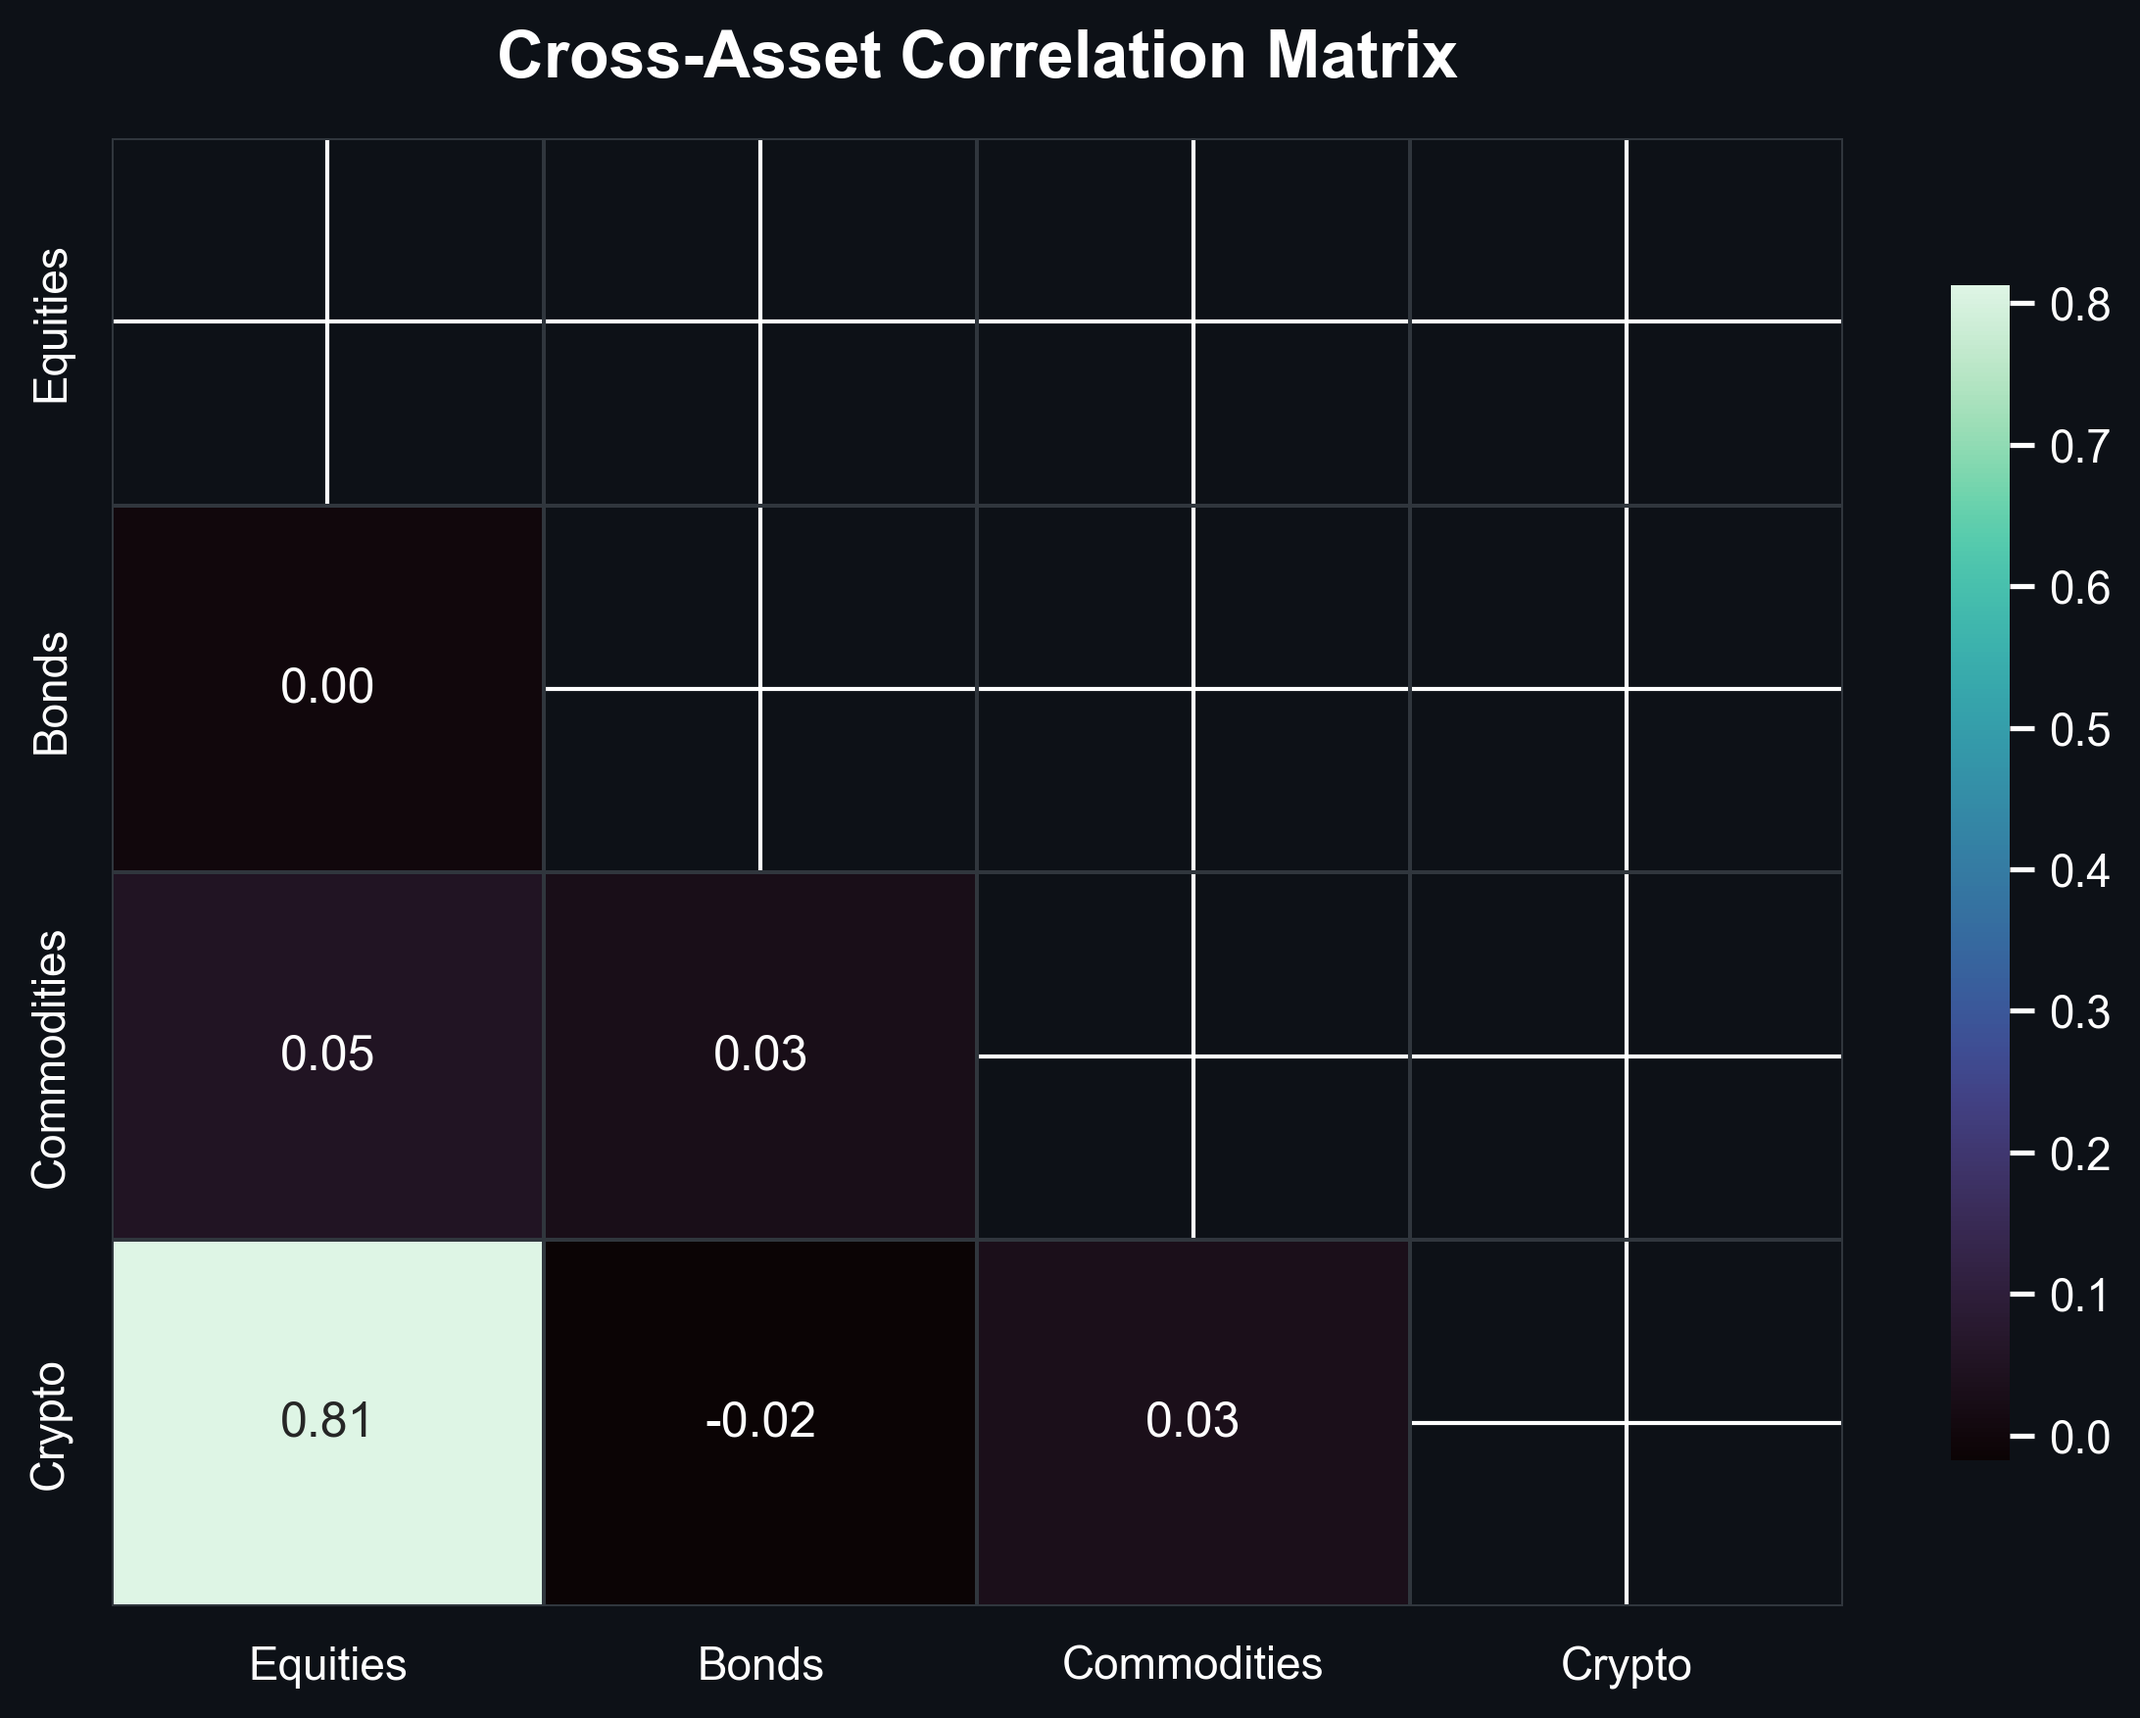
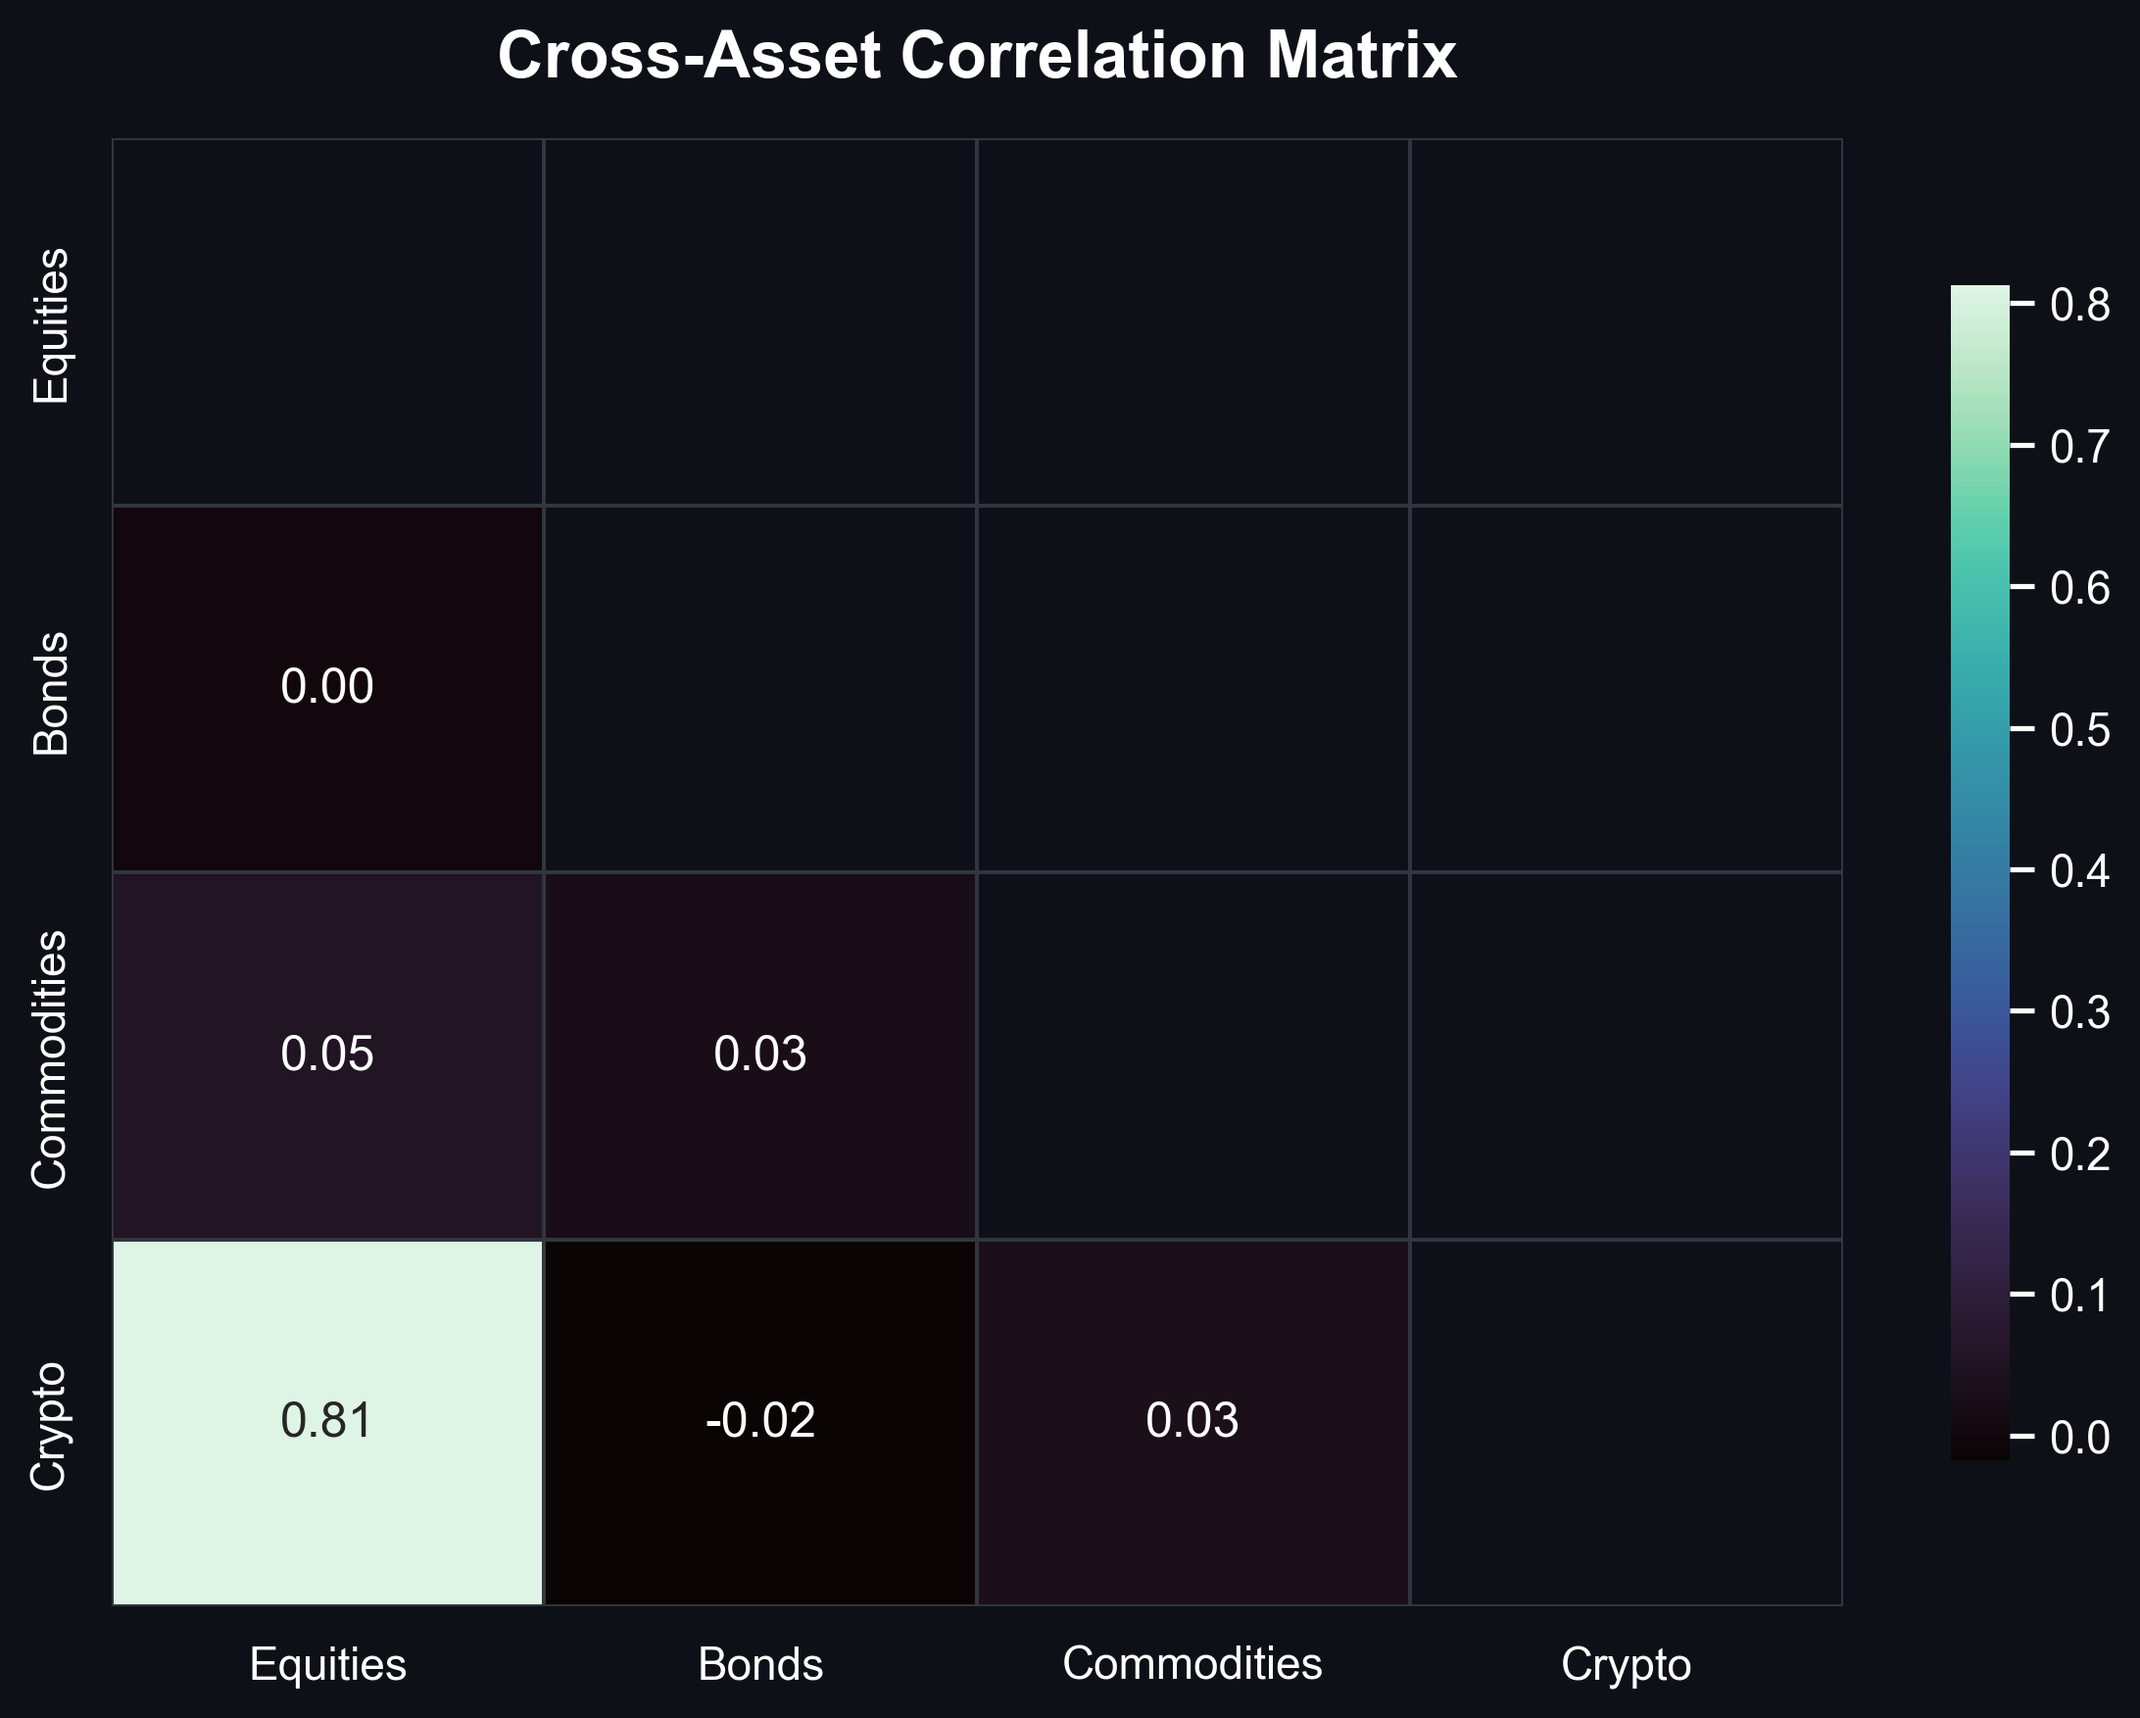
fix(visuals): comprehensively strip global seaborn axes grids across all heatmaps

diff --git a/nexus/utils/visualizer.py b/nexus/utils/visualizer.py
@@ -167,7 +167,7 @@ class NexusVisualizer:
         """
         Renders an institutional cross-asset correlation matrix heatmap.
         """
-        sns.set_theme(style="darkgrid")
+        sns.set_theme(style="dark")
         plt.style.use("dark_background")
         
         fig, ax = plt.subplots(figsize=(8, 6), dpi=300)
@@ -243,7 +243,7 @@ class NexusVisualizer:
         """
         Renders an institutional monthly returns heatmap (QuantStats style).
         """
-        sns.set_theme(style="darkgrid")
+        sns.set_theme(style="dark")
         plt.style.use("dark_background")
         
         if not isinstance(returns.index, pd.DatetimeIndex):
